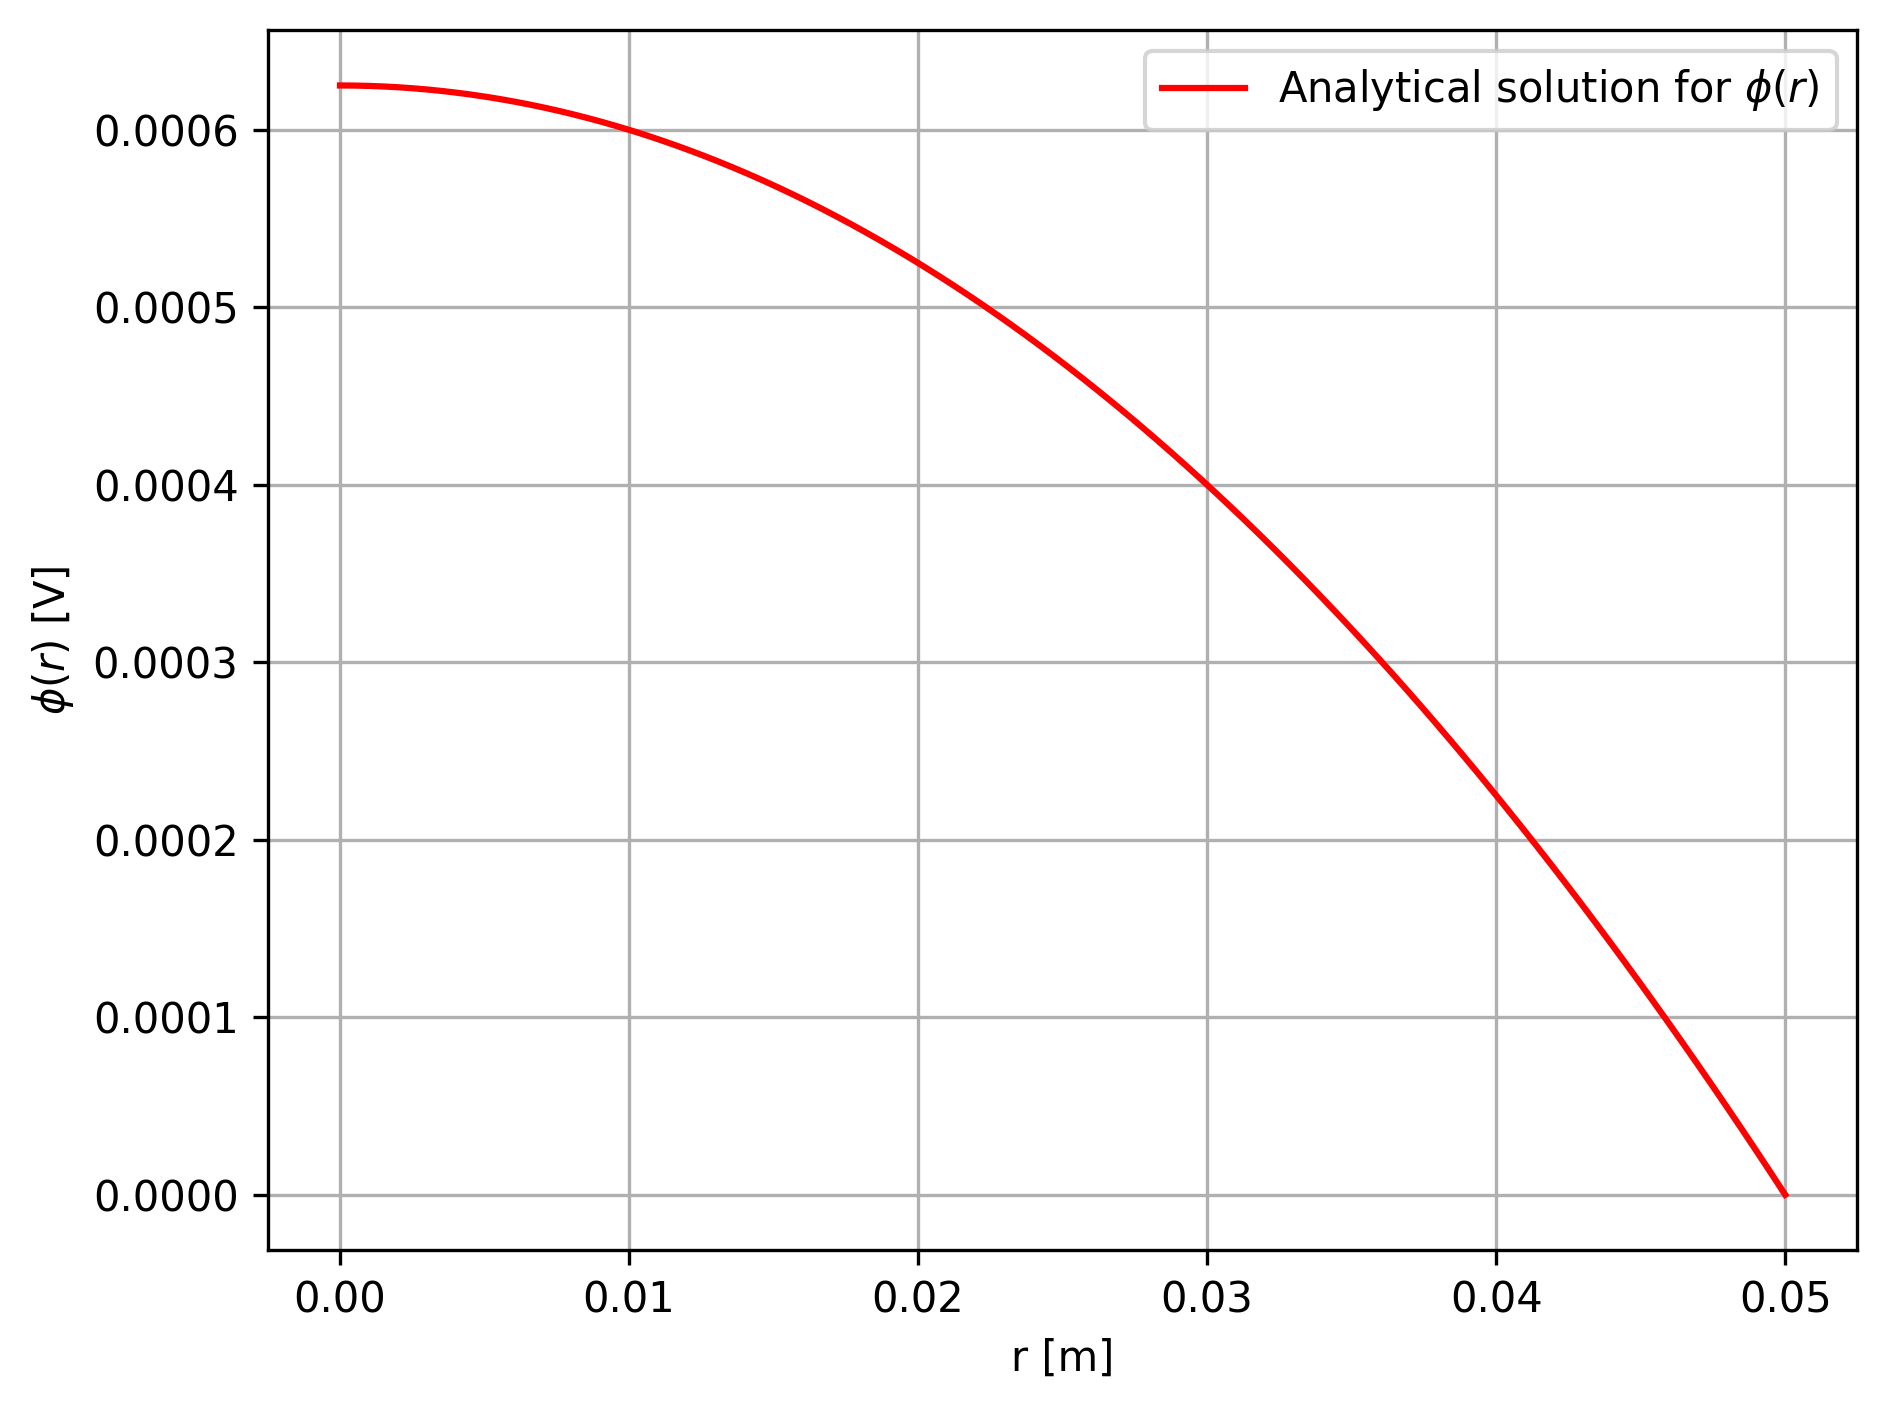
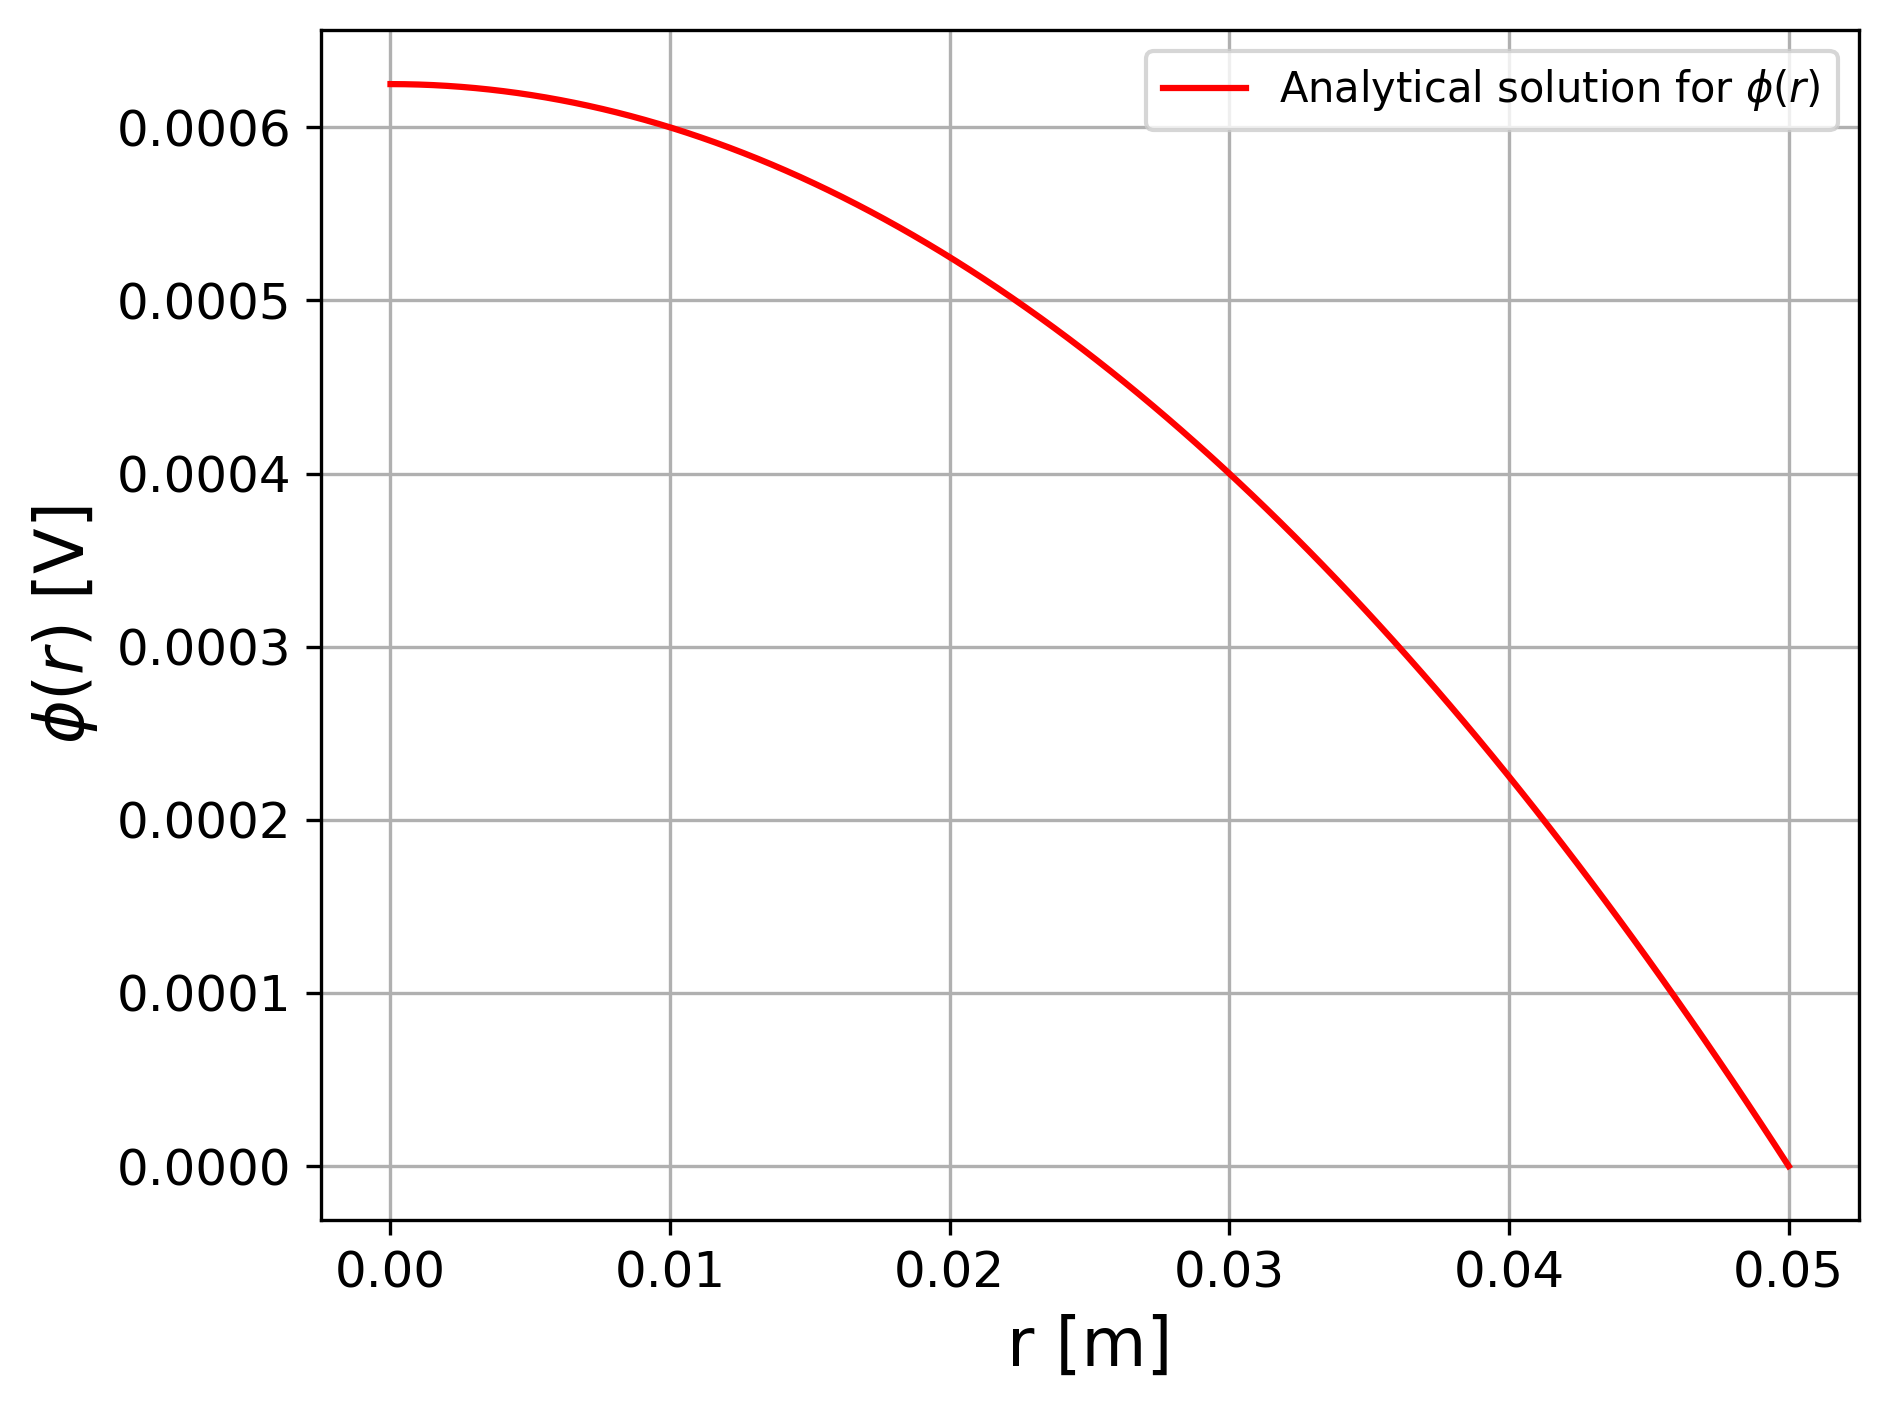
fin question a, j'ai changé functions.py attention

diff --git a/functions.py b/functions.py
@@ -38,42 +38,6 @@ def get_params(params):
 
     return R, r1, epsilon_a, epsilon_b, uniform_rho_case, VR, rho0, N1, N2, epsilon_0
 
-'''
-def run_simulation(executable, input_filename, output_template, **params):
-
-    # Ensure outputs/ subfolder exists
-    output_dir = "outputs"
-    os.makedirs(output_dir, exist_ok=True)
-
-    # Create the output filename from template
-    raw_filename = output_template.format(**params)
-    output_filename = os.path.join(output_dir, raw_filename)  # Save in subfolder
-
-    # Build the command string
-    param_str = " ".join(f"{key}={value:.15g}" for key, value in params.items())
-    cmd = f'"{executable}" {input_filename} {param_str} output={output_filename}'
-
-    print(f"\n Running command: {cmd}")
-
-    # Run the command
-    result = subprocess.run(cmd, shell=True, capture_output=True, text=True)
-
-    print("----- STDOUT -----")
-    print(result.stdout)
-
-    print("----- STDERR -----")
-    print(result.stderr)
-
-    # Check result
-    if os.path.exists(output_filename):
-        print(f" SUCCESS: Output file '{output_filename}' was created!")
-    else:
-        print(f" ERROR: The output file '{output_filename}' was NOT created!")
-
-    return output_filename, result
-'''
-
-
 #TEST
 def run_simulation(executable, input_filename, output_template, **params):
     '''Runs the simulation with the given parameters'''
@@ -113,17 +77,39 @@ def run_simulation(executable, input_filename, output_template, **params):
 
 
 
-def run_param_sweep(executable, input_filename, param_name, values, fixed_params):
-    outputs = []
+def run_param_sweep_qa(executable, input_filename, param_name, values, fixed_params): #ATTENTION: cette fonction est seulement pour la question a car ca ecrase N2!!!!!
+    phi_outputs = []
+    E_outputs = []
+    D_outputs = []
+    param_list = []
+    for val in values:
+        params = fixed_params.copy()
+        params[param_name] = val
+        params["N2"] = val # Ensure N2 is set to the same value as N1
+        output_template = f"output_{param_name}_{{{param_name}}}.out"
+        phi_file, E_file, D_file, result = run_simulation(executable, input_filename, output_template, **params)
+        phi_outputs.append(phi_file)
+        E_outputs.append(E_file)
+        D_outputs.append(D_file)
+        param_list.append(params.copy())  # Store each individual param set
+    return phi_outputs, E_outputs, D_outputs, param_list
+
+
+def run_param_sweep(executable, input_filename, param_name, values, fixed_params): 
+    phi_outputs = []
+    E_outputs = []
+    D_outputs = []
     param_list = []
     for val in values:
         params = fixed_params.copy()
         params[param_name] = val
         output_template = f"output_{param_name}_{{{param_name}}}.out"
-        outname, result = run_simulation(executable, input_filename, output_template, **params)
-        outputs.append(outname)
+        phi_file, E_file, D_file, result = run_simulation(executable, input_filename, output_template, **params)
+        phi_outputs.append(phi_file)
+        E_outputs.append(E_file)
+        D_outputs.append(D_file)
         param_list.append(params.copy())  # Store each individual param set
-    return outputs, param_list
+    return phi_outputs, E_outputs, D_outputs, param_list
 
 
 

diff --git a/questiona.py b/questiona.py
@@ -15,20 +15,18 @@ input_filename = "configa.in"
 params = fct.read_in_file(input_filename)
 R, r1, epsilon_a, epsilon_b, uniform_rho_case, VR, rho0, N1, N2, epsilon_0 = fct.get_params(params)
 
-'''
-output = fct.run_simulation(executable, input_filename,output_template) #je comprends pas comment je dois utiliser les fonctions lol
-r, phi = fct.read_output_file_phi("outputs/output.out_phi.out")
-'''
-
 phi_file, E_file, D_file, _= fct.run_simulation(executable, input_filename, output_template)
 r, phi, r_E, E, r_D, D = fct.read_output_files(phi_file, E_file, D_file)
 
 
 plt.figure()
-plt.plot(r, phi, marker='o')
-plt.xlabel(r'r [m]')
-plt.ylabel(r'$\phi$ [V]')
+plt.plot(r, phi, marker='o', label=rf"$\phi(r)$ (N1 = N2 = {N1})", color='blue')
+plt.xlabel(r'r [m]',fontsize=16)
+plt.ylabel(r'$\phi$ [V]',fontsize=16)
+plt.xticks(fontsize=12)  
+plt.yticks(fontsize=12)
 plt.grid(True)
+plt.legend()
 plt.tight_layout()
 fct.save_figure("phi_vs_r.png")
 plt.show()
@@ -40,8 +38,10 @@ r_vals = np.linspace(0, R, 100)
 phi_vals = phi_analytique(r_vals)
 plt.figure()
 plt.plot(r_vals, phi_vals, label=r"Analytical solution for $\phi(r)$", color='red')
-plt.xlabel("r [m]")
-plt.ylabel(r"$\phi(r)$ [V]")
+plt.xlabel("r [m]",fontsize=16)
+plt.ylabel(r"$\phi(r)$ [V]",fontsize=16)
+plt.xticks(fontsize=12)  
+plt.yticks(fontsize=12)
 plt.grid(True)
 plt.legend()
 plt.tight_layout()
@@ -52,10 +52,52 @@ plt.show()
 plt.figure()
 plt.plot(r, phi, 'o-', label="Numerical", color='blue')
 plt.plot(r_vals, phi_vals, '--', label="Analytical", color='red')
-plt.xlabel("r [m]")
-plt.ylabel(r"$\phi(r)$ [V]")
+plt.xlabel("r [m]",fontsize=16)
+plt.ylabel(r"$\phi(r)$ [V]",fontsize=16)
+plt.xticks(fontsize=12)  
+plt.yticks(fontsize=12)
 plt.grid(True)
 plt.legend()
 plt.tight_layout()
 fct.save_figure("phi_comparaison.png")
+plt.show()
+
+#Convergence study
+errors = []
+N_values = []
+dts = []
+dts_squared = []
+phi_outputs, E_outputs, D_outputs, param_sets = fct.run_param_sweep_qa(executable, input_filename, "N1", np.linspace(20, 100, 10, dtype=int), params)
+phi_anal_0 = 0.25 * (R**2)
+for phi_file, E_file, D_file, param_set in zip(phi_outputs, E_outputs, D_outputs, param_sets):
+    r, phi = fct.read_output_file_phi(phi_file)
+    phi_0 = phi[0]
+    error = np.abs(phi_0 - phi_anal_0)
+    errors.append(error)
+    N_values.append(param_set["N1"])
+    dts.append(1/param_set["N1"])
+    dts_squared.append(1/(param_set["N1"]**2))
+
+plt.figure()
+plt.plot(dts_squared, errors, 'o-', label=r"$|\phi_\mathrm{num}(0) - \phi_\mathrm{anal}(0)|$")
+plt.xlabel(r"N$^{-2}$ (N1=N2)", fontsize=16)
+plt.ylabel(r"Error on $\phi(0)$ [V]", fontsize=16)
+plt.xticks(fontsize=12)
+plt.yticks(fontsize=12)
+plt.grid(True)
+plt.legend()
+plt.tight_layout()
+fct.save_figure("convergence_phi0_dt.png")
+plt.show()
+
+plt.figure()
+plt.loglog(N_values, errors, 'o-', label=r"$|\phi_\mathrm{num}(0) - \phi_\mathrm{anal}(0)|$")
+plt.xlabel(r"N (N1=N2)", fontsize=16)
+plt.ylabel(r"Error on $\phi(0)$ [V]", fontsize=16)
+plt.xticks(fontsize=12)
+plt.yticks(fontsize=12)
+plt.grid(True)
+plt.legend()
+plt.tight_layout()
+fct.save_figure("convergence_phi0_N.png")
 plt.show()
